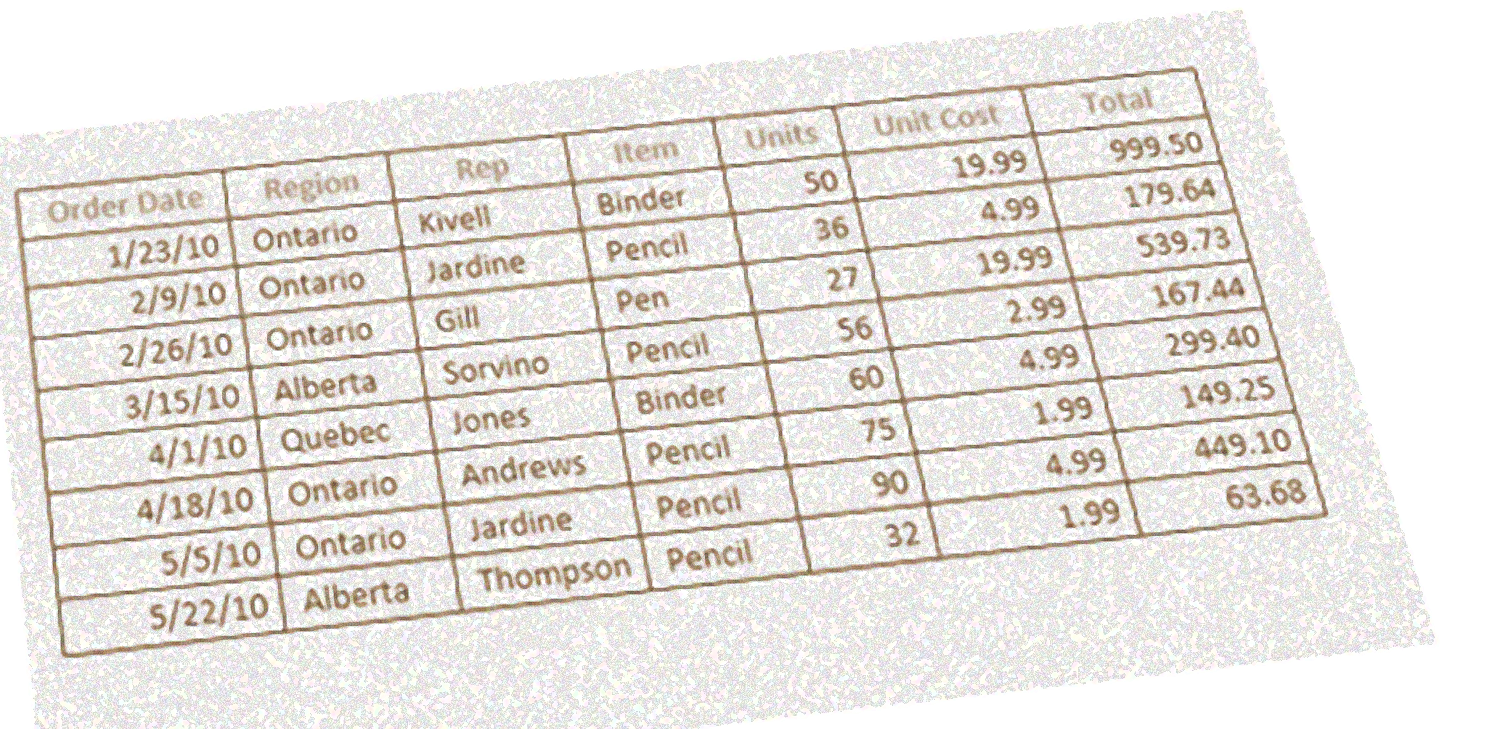
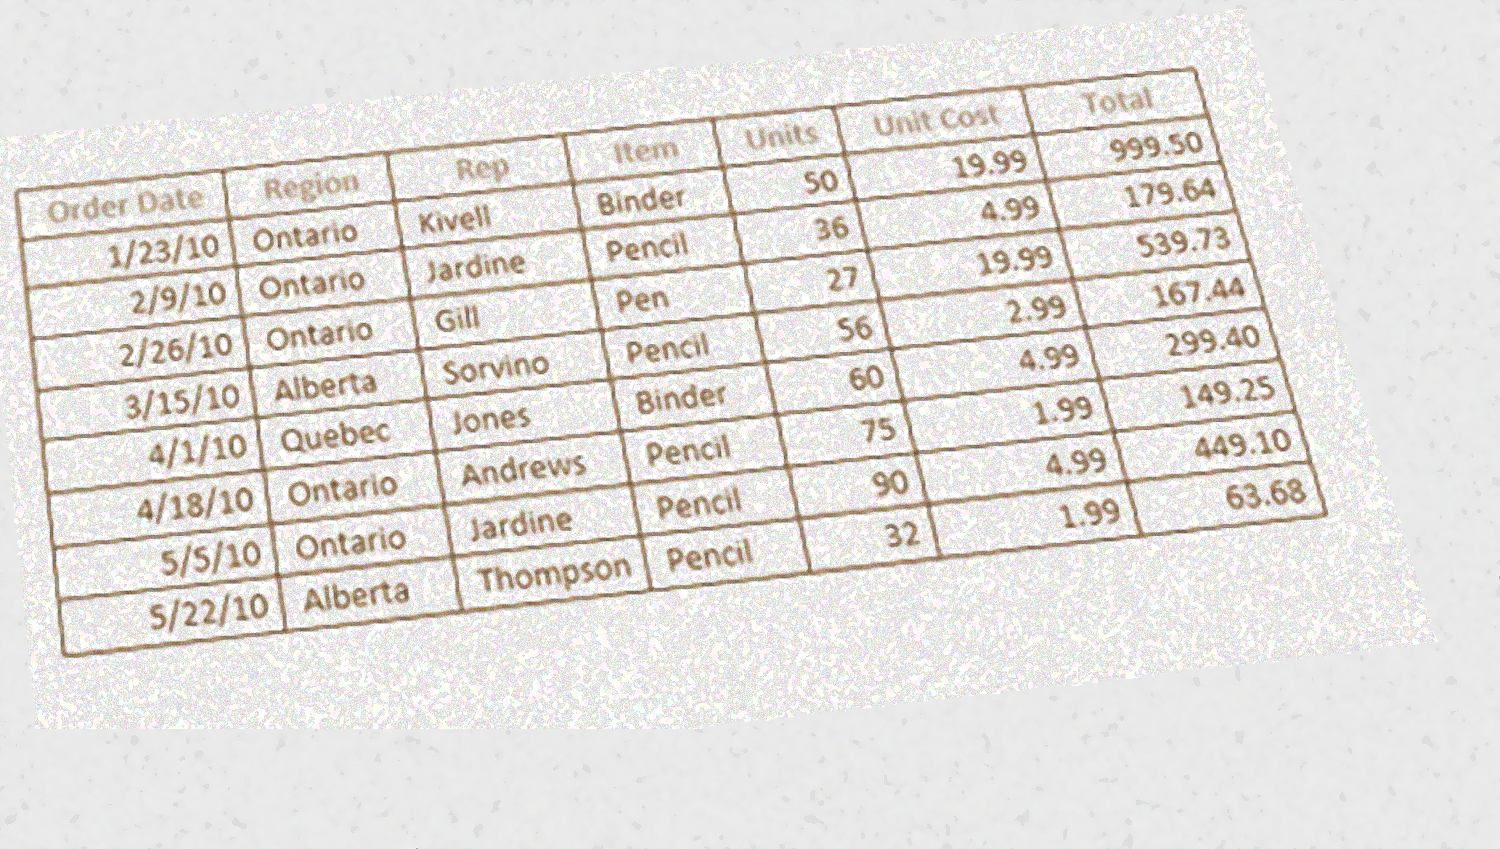
basic WIP edge detectoin

diff --git a/pages/ScanContacts.js b/pages/ScanContacts.js
@@ -12,6 +12,7 @@ import sd from '../services/canvas/shapeDrawer';
 
 //optical recognition
 import cornerDetector from '../services/tableDetector/cornerDetector';
+import outerEdgeDetector from '../services/tableDetector/outerEdgeDetector';
 
 export default class ScanContacts extends React.Component {
 constructor(props) {
@@ -20,7 +21,13 @@ constructor(props) {
 			scanReady: false,
 			topScannerPosition : 0,
 			bottomScannerPosition : 1,
-			scanSpeed : 3,
+			cornerScanSpeed : 3,
+			line1ScannerRad: -0.2,
+			line2ScannerRad: -0.2,
+			line3ScannerRad: -0.2+Math.PI,
+			line4ScannerRad: -0.2+Math.PI,
+			outerBorderScanSpeed : 5,
+			outerBorderScanRadDelta : 0.02,
 		};
 	}
 
@@ -32,7 +39,7 @@ componentDidMount() {
 		if(scanImage.complete)
 			this.loadImageToCanvasWrap();
 		else
-			scanImageonload=function(){
+			scanImage.onload=function(){
 				this.loadImageToCanvasWrap();
 			};
 		this.updateCanvas();
@@ -41,20 +48,34 @@ componentDidMount() {
 	setInterval(this.detectionStep.bind(this), 60);
 }
 loadImageToCanvasWrap() {
+	//this is the canvas we draw on
 	const canvas = this.state.canvas;
+	//this is a wrapping canvas for the scanned document - it stores it, and allows us to acces it's content
 	const scanCanvas = this.refs.scanCanvas;
+	//this is the image being scanned
 	const scanImage = this.refs.scanImage;
+	//initialize wrapper canvas to have the same size as the image it's wrapping
 	scanCanvas.width = scanImage.width;
 	scanCanvas.height = scanImage.height;
-	ia.drawImage(scanCanvas.getContext('2d'), scanImage, 0, 0);
+	const ctx = scanCanvas.getContext('2d');
+	//initialize canvas to have a white background to prevent transparent areas messing with the detection
+	ctx.fillStyle="#FFFFFF";
+	ctx.fillRect(0, 0, ctx.canvas.width, ctx.canvas.height);
+	//draw the image onto a wrapping canvas - this allows us to access the pixel data directly later on
+	ia.drawImage(ctx, scanImage, 0, 0);
+	//initialize drawing canvas to the size of the scanned document
 	canvas.width = scanImage.width;
 	canvas.height = scanImage.height;
+	//storing the canvases in the state. Once done, perform minor contrast/saturation adustments.
 	this.setState({width:canvas.width, height:canvas.height, scan:scanCanvas}, ()=>{this.adjustScan();});
 }
 adjustScan(){
 	var scan = this.state.scan;
+	//make the image greyscale
 	ia.desaturateImage(scan.getContext('2d'));
+	//increase contrast to eliminate noise and highlight edges
 	ia.contrastImage(scan.getContext('2d'), 0.75);
+	//store in the state
 	this.setState({scan:scan}, ()=>{this.setState({scanReady:true});});
 }
 updateCanvas() {
@@ -80,40 +101,112 @@ updateCanvas() {
 	{
 		sd.fillOval(ctx, this.state.bottomCorner.x-2, this.state.bottomCorner.y-2, 5);
 	}
+	if(this.state.bottomCorner&&this.state.topCorner){
+		const maxLineLength = Math.sqrt(this.state.width*this.state.width + this.state.height*this.state.height);
+		//outer border 1
+		let x1 = this.state.topCorner.x;
+		let y1 = this.state.topCorner.y;
+		let x2 = x1+(maxLineLength*Math.cos(this.state.line1ScannerRad));
+		let y2 = y1+(maxLineLength*Math.sin(this.state.line1ScannerRad));
+		sd.drawLine(ctx, x1, y1, x2, y2);
+		//outer border 2
+		x1 = this.state.topCorner.x;
+		y1 = this.state.topCorner.y;
+		x2 = x1+(maxLineLength*Math.cos(this.state.line2ScannerRad));
+		y2 = y1+(maxLineLength*Math.sin(this.state.line2ScannerRad));
+		//outer border 3
+		x1 = this.state.bottomCorner.x;
+		y1 = this.state.bottomCorner.y;
+		x2 = x1+(maxLineLength*Math.cos(this.state.line3ScannerRad));
+		y2 = y1+(maxLineLength*Math.sin(this.state.line3ScannerRad));
+		sd.drawLine(ctx, x1, y1, x2, y2);
+		//outer border 4
+		x1 = this.state.bottomCorner.x;
+		y1 = this.state.bottomCorner.y;
+		x2 = x1+(maxLineLength*Math.cos(this.state.line4ScannerRad));
+		y2 = y1+(maxLineLength*Math.sin(this.state.line4ScannerRad));
+		sd.drawLine(ctx, x1, y1, x2, y2);
+	}
 }
 detectionStep() {
 	if(!this.state.scanReady||!this.state.scan)
 		return;
 	if(!this.state.topCorner||!this.state.bottomCorner)
 		this.detectCorners();
+	if(this.state.topCorner&&this.state.bottomCorner)
+	{
+		this.detectOuterEdges();
+	}
 }
 detectCorners() {
 	if(!this.state.topCorner)
 	{
-		const topDetection = cornerDetector.detectTopCorner(this.state.scan, this.state.scanSpeed, this.state.topScannerPosition);
+		const topDetection = cornerDetector.detectCornerInRange(this.state.scan, this.state.topScannerPosition, 1, this.state.cornerScanSpeed, this.state.bottomCorner);
 		if(topDetection)
 		{
 			this.setState({topCorner:{x:topDetection.x, y:topDetection.y}});
 		}
 		else
 		{
-			this.setState({"topScannerPosition":this.state.topScannerPosition+this.state.scanSpeed});
+			this.setState({"topScannerPosition":this.state.topScannerPosition+this.state.cornerScanSpeed});
 		}
 	}
 	if(!this.state.bottomCorner)
 	{
-		const bottomDetection = cornerDetector.detectBottomCorner(this.state.scan, this.state.scanSpeed, this.state.bottomScannerPosition);
+		const bottomDetection = cornerDetector.detectCornerInRange(this.state.scan, this.state.bottomScannerPosition, -1, this.state.cornerScanSpeed, this.state.topCorner);
 		if(bottomDetection)
 		{
 			this.setState({bottomCorner:{x:bottomDetection.x, y:bottomDetection.y}});
 		}
 		else
 		{
-			this.setState({"bottomScannerPosition":this.state.bottomScannerPosition+this.state.scanSpeed});
+			this.setState({"bottomScannerPosition":this.state.bottomScannerPosition+this.state.cornerScanSpeed});
 		}
 	}
 }
-
+detectOuterEdges() {
+	let detectedEdge = null;
+	if(!this.state.line1Rad)
+	{
+		detectedEdge = outerEdgeDetector.detectOuterEdgeFromCorner(
+			this.state.scan, this.state.topCorner.x, this.state.topCorner.y, this.state.line1ScannerRad, this.state.outerBorderScanRadDelta, this.state.outerBorderScanSpeed
+		)
+		if(detectedEdge!=null)
+			this.setState({line1Rad: detectedEdge.rad, topCorner: {"x":detectedEdge.x, "y":detectedEdge.y}});
+		else
+			this.setState({line1ScannerRad: this.state.line1ScannerRad+(this.state.outerBorderScanRadDelta*this.state.outerBorderScanSpeed)});
+	}
+	if(!this.state.line2Rad)
+	{
+		detectedEdge = outerEdgeDetector.detectOuterEdgeFromCorner(
+			this.state.scan, this.state.topCorner.x, this.state.topCorner.y, this.state.line2ScannerRad, this.state.outerBorderScanRadDelta, this.state.outerBorderScanSpeed
+		)
+		if(detectedEdge!=null)
+			this.setState({line2Rad: detectedEdge.rad, topCorner: {"x":detectedEdge.x, "y":detectedEdge.y}});
+		else
+			this.setState({line2ScannerRad: this.state.line2ScannerRad+(this.state.outerBorderScanRadDelta*this.state.outerBorderScanSpeed)});
+	}
+	if(!this.state.line3Rad)
+	{
+		detectedEdge = outerEdgeDetector.detectOuterEdgeFromCorner(
+			this.state.scan, this.state.bottomCorner.x, this.state.bottomCorner.y, this.state.line3ScannerRad, this.state.outerBorderScanRadDelta, this.state.outerBorderScanSpeed
+		)
+		if(detectedEdge!=null)
+			this.setState({line3Rad: detectedEdge.rad, bottomCorner: {"x":detectedEdge.x, "y":detectedEdge.y}});
+		else
+			this.setState({line3ScannerRad: this.state.line3ScannerRad+(this.state.outerBorderScanRadDelta*this.state.outerBorderScanSpeed)});
+	}
+	if(!this.state.line4Rad)
+	{
+		detectedEdge = outerEdgeDetector.detectOuterEdgeFromCorner(
+			this.state.scan, this.state.bottomCorner.x, this.state.bottomCorner.y, this.state.line4ScannerRad, this.state.outerBorderScanRadDelta, this.state.outerBorderScanSpeed
+		)
+		if(detectedEdge!=null)
+			this.setState({line4Rad: detectedEdge.rad, bottomCorner: {"x":detectedEdge.x, "y":detectedEdge.y}});
+		else
+			this.setState({line4ScannerRad: this.state.line4ScannerRad+(this.state.outerBorderScanRadDelta*this.state.outerBorderScanSpeed)});
+	}
+}
 render() {
 	return (
 		<div dir="rtl">
@@ -121,7 +214,7 @@ render() {
 			<style jsx global>{Stylesheet}</style>
 			<canvas ref="canvas" width={300} height={300} className="scanCanvas"/>
 			<canvas ref="scanCanvas" className="hidden"/>
-			<img ref="scanImage" src="../static/table_mid.png" className="hidden"/>
+			<img ref="scanImage" src="../static/table_mid_small.png" className="hidden"/>
 		</div>
 	)
 }

diff --git a/services/tableDetector/cornerDetector.js b/services/tableDetector/cornerDetector.js
@@ -1,41 +1,45 @@
 import aggregator from '../arrayAggregator';
 
-function detectTopCorner(img, rowBulkSize, rowIndex) {
+function detectCornerInRange(img, rowIndex, dir, rowBulkSize, alreadyDetected) {
 	img = img.getContext('2d');
-	for(var i=0; i<rowBulkSize; i++)
+	let rowStart = 0;
+	let rowEnd = img.canvas.width;
+	if(alreadyDetected!=null)
 	{
-		var row = img.getImageData(0, rowIndex+i, img.canvas.width, 1);
-		const cornerXSearch = scanRowForCorner(row, 1);
-		if (cornerXSearch!=null)
+		rowEnd = rowEnd/2;
+		if(alreadyDetected.x<rowEnd)
 		{
-			return {x:scanRowForDarkestRange(row, 2), y:rowIndex+i};
+			rowStart = rowEnd;
 		}
-		return false;
 	}
-}
-function detectBottomCorner(img, rowBulkSize, rowIndex) {
-	img = img.getContext('2d');
 	for(var i=0; i<rowBulkSize; i++)
 	{
-		var row = img.getImageData(0, img.canvas.height-(rowIndex+i), img.canvas.width, 1);
-		const cornerXSearch = scanRowForCorner(row, -1);
+		const rowY = (dir==1)?rowIndex+i:img.canvas.height-(rowIndex+i);
+		var row = img.getImageData(rowStart, rowY, rowEnd, 1);
+		const cornerXSearch = scanRowForCorner(row, rowStart>0?-1:1);
 		if (cornerXSearch!=null)
 		{
-			return {x:scanRowForDarkestRange(row, 2), y:img.canvas.height-(rowIndex+i)};
+			return {x:cornerXSearch+rowStart, y:rowY};
 		}
 		return false;
 	}
 }
 function scanRowForCorner(row, dir) {
-	const cornerWidthThreshold = 2;
-	const cornerBrightnessThreshold = 200;
+	const cornerWidthThreshold = 5;
+	const cornerBrightnessThreshold = 230;
+	const rowWidth = row.data.length/4;
 	if(dir==1)
 	{
 		for(var j=0; j<row.data.length-(cornerWidthThreshold*4); j+=4)
 		{
-			if(aggregator.avg(row.data.slice(j, j+(cornerWidthThreshold*4)))<cornerBrightnessThreshold)
+			//calculate avg brightness of the currently scanned portion of the row
+			const rangeBrightness = aggregator.avg(row.data.slice(j, j+(cornerWidthThreshold*4)));
+			//if it is lower than the threshold
+			if(rangeBrightness<cornerBrightnessThreshold)
 			{
-				return Math.floor(j/4);
+				//x coordinate of the area which was determined to be pretty dark
+				const darkRangeX = Math.floor(j/4);
+				return scanRowForOuterDarkPixel(row, rangeBrightness*1.15, darkRangeX>(rowWidth/2)?-1:1);
 			}
 		}
 	}
@@ -43,29 +47,31 @@ function scanRowForCorner(row, dir) {
 	{
 		for(var j=row.data.length-(cornerWidthThreshold*4)-1; j>=0; j-=4)
 		{
-			if(aggregator.avg(row.data.slice(j, j+(cornerWidthThreshold*4)))<cornerBrightnessThreshold)
+			//calculate avg brightness of the currently scanned portion of the row
+			const rangeBrightness = aggregator.avg(row.data.slice(j, j+(cornerWidthThreshold*4)));
+			//if it is lower than the threshold
+			if(rangeBrightness<cornerBrightnessThreshold)
 			{
-				return Math.floor(j/4);
+				//x coordinate of the area which was determined to be pretty dark
+				const darkRangeX = Math.floor(j/4);
+				return scanRowForOuterDarkPixel(row, rangeBrightness*1.1, darkRangeX>(rowWidth/2)?-1:1);
 			}
 		}
 	}
 	return null;
 }
-function scanRowForDarkestRange(row, rangeWidth){
-	let darkestX = 0;
-	let darkestAvg = 255;
-	for(var j=0; j<row.data.length-(rangeWidth*4); j+=4)
+function scanRowForOuterDarkPixel(row, threshold, dir){
+	for(var j=0; j<row.data.length-4; j+=4)
 	{
-		const avgBrightness=aggregator.avg(row.data.slice(j, j+(rangeWidth*4)));
-		if(avgBrightness<darkestAvg)
+		const rowX = (dir==1)?j:row.data.length-j-4;
+		const avgBrightness=aggregator.avg(row.data.slice(rowX, rowX+4));
+		if(avgBrightness<=threshold)
 		{
-			darkestX = Math.floor(j/4);
-			darkestAvg = avgBrightness
+			return Math.floor(rowX/4);
 		}
 	}
-	return darkestX;
+	return null;
 }
 export default {
-	detectTopCorner,
-    detectBottomCorner
+	detectCornerInRange
 }

diff --git a/services/tableDetector/outerEdgeDetector.js b/services/tableDetector/outerEdgeDetector.js
@@ -1,0 +1,59 @@
+import aggregator from '../arrayAggregator';
+function detectOuterEdgeFromCorner(img, x, y, rad, checkDelta, speed) {
+	const points = getFuzzyCornerCoordinates(img, x, y, rad);
+	for(var i=0; i<speed; i++)
+	{
+		let sin = Math.sin(rad+(i*checkDelta));
+		let cos = Math.cos(rad+(i*checkDelta));
+		for(var j=0; j<points.length; j++)
+		{
+			let detection = detectOuterEdgeFromCoordinate(img, points[j].x, points[j].y, sin, cos);
+			if(detection!=null)
+				return {"x":points[j].x, "y":points[j].y, "rad":rad+(i*checkDelta)};
+		}
+	}
+	return null;
+}
+function getFuzzyCornerCoordinates(img, x, y, rad){
+	let sin = Math.sin(rad);
+	let cos = Math.cos(rad);
+	const fuzziness = 3;
+	let points = [];
+	const width = img.width;
+	const height = img.height;
+	for(var i=-fuzziness; i<fuzziness; i++)
+	{
+		let tempX = x+(i*cos);
+		let tempY = y+(i*sin);
+		if((tempX>0)&&(tempX<width)&&(tempY>0)&&(tempY<height))
+			points.push({"x":tempX, "y":tempY});
+	}
+	return points;
+}
+function detectOuterEdgeFromCoordinate(img, x, y, sin, cos) {
+	const threshold = 220;
+	img = img.getContext('2d');
+	const width = img.canvas.width;
+	const height = img.canvas.height;
+	const imageData = img.getImageData(0, 0, width, height).data;
+	const maxLineLength = Math.sqrt(width*width + height*height);
+	let linePoints = [];
+	for(var i=0; i<maxLineLength; i++)
+	{
+		let pointX = Math.floor(x+(i*cos));
+		let pointY = Math.floor(y+(i*sin));
+		if((pointX>0)&&(pointX<width)&&(pointY>0)&&(pointY<height))
+		{
+			let brightnessAtPoint = imageData[4*(pointX+(pointY*width))]
+			linePoints.push(brightnessAtPoint);
+		}
+	}
+	const avgBrightness = aggregator.avg(linePoints);
+	if(avgBrightness!=null&&avgBrightness<threshold)
+		return true;
+	return null;
+	
+}
+export default {
+	detectOuterEdgeFromCorner
+}
